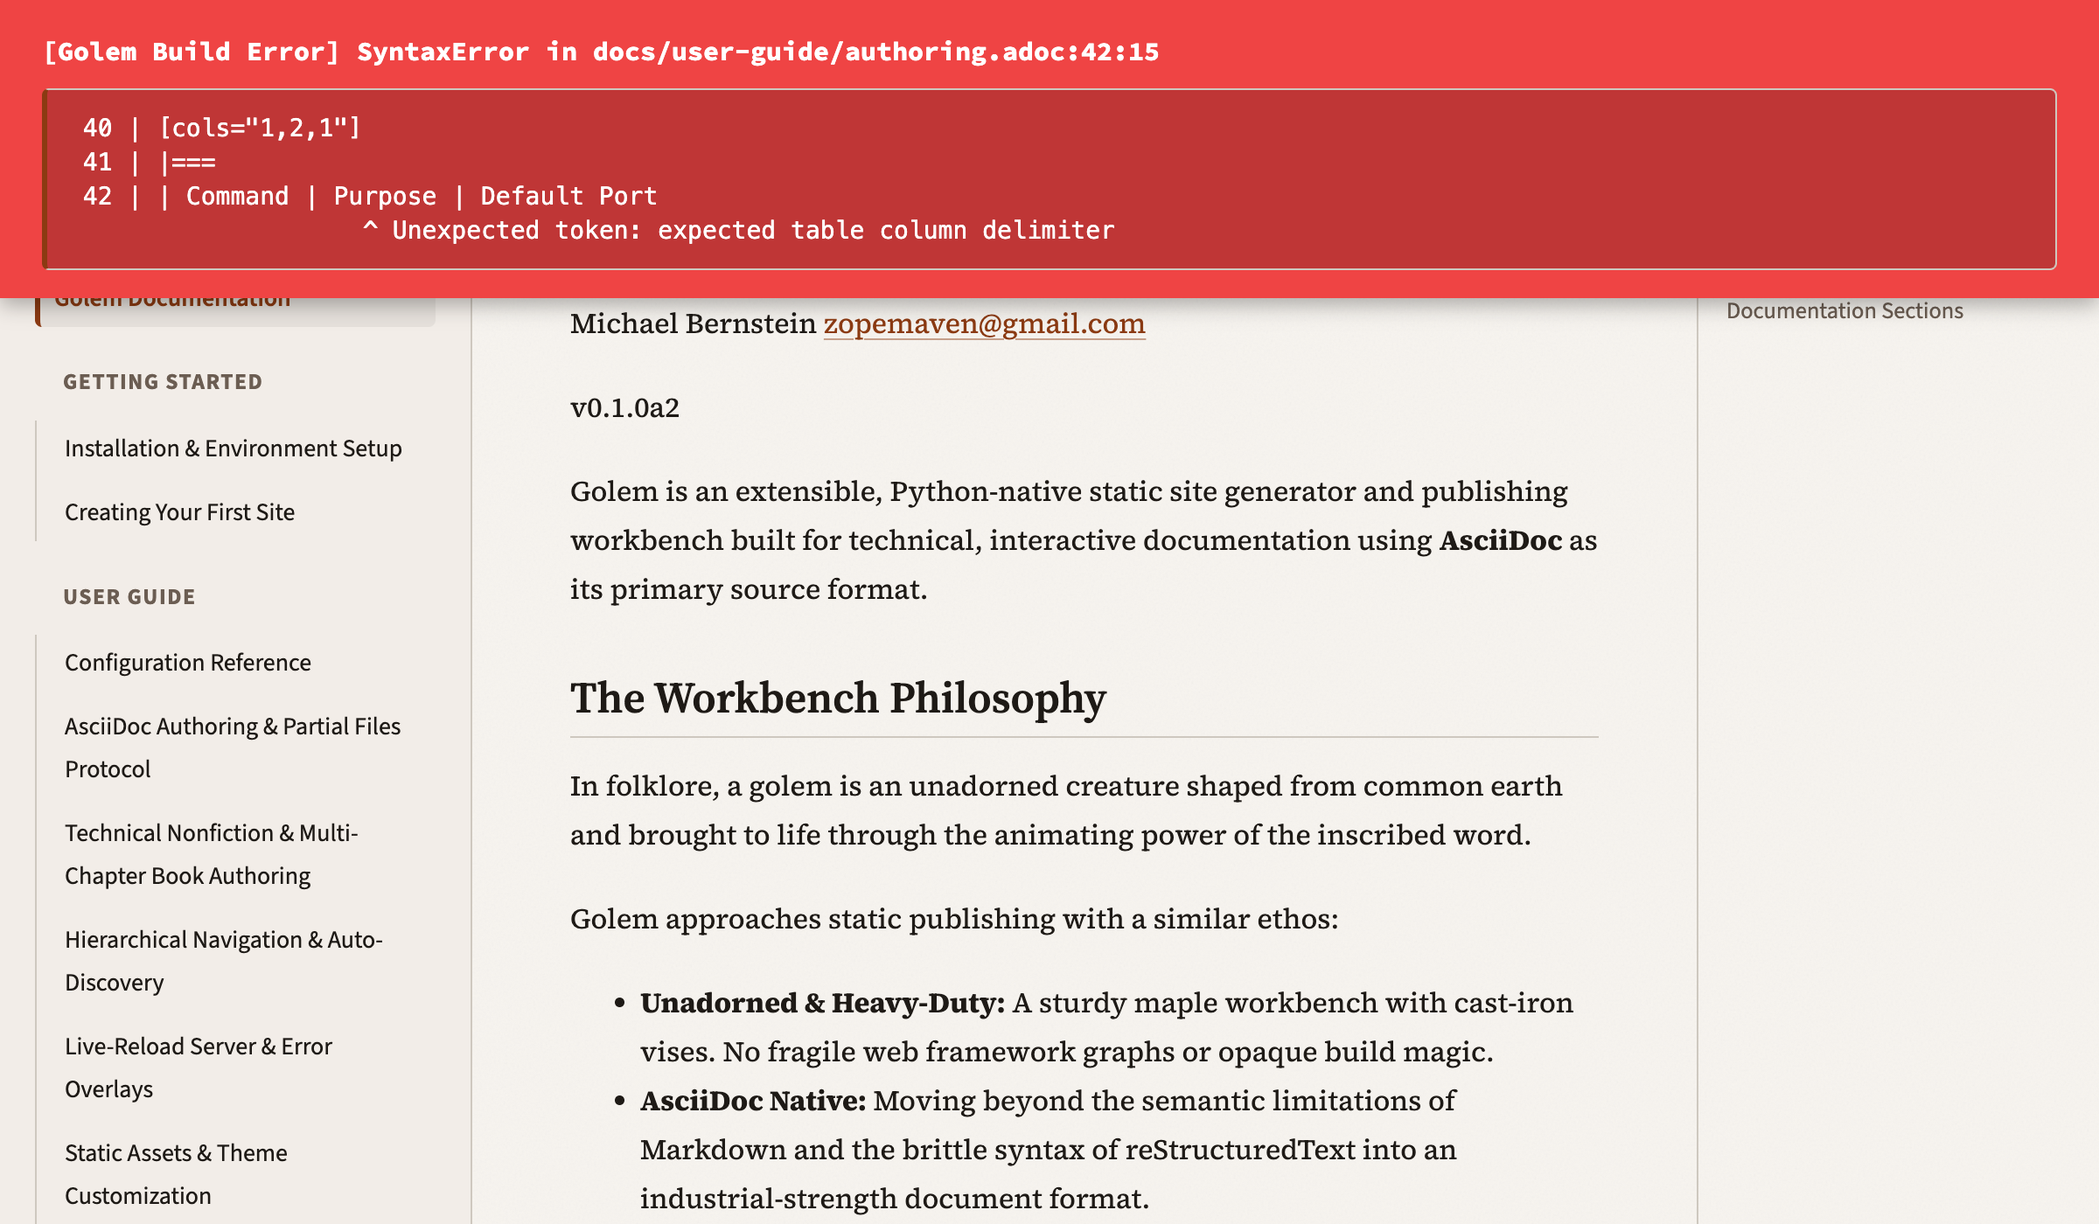
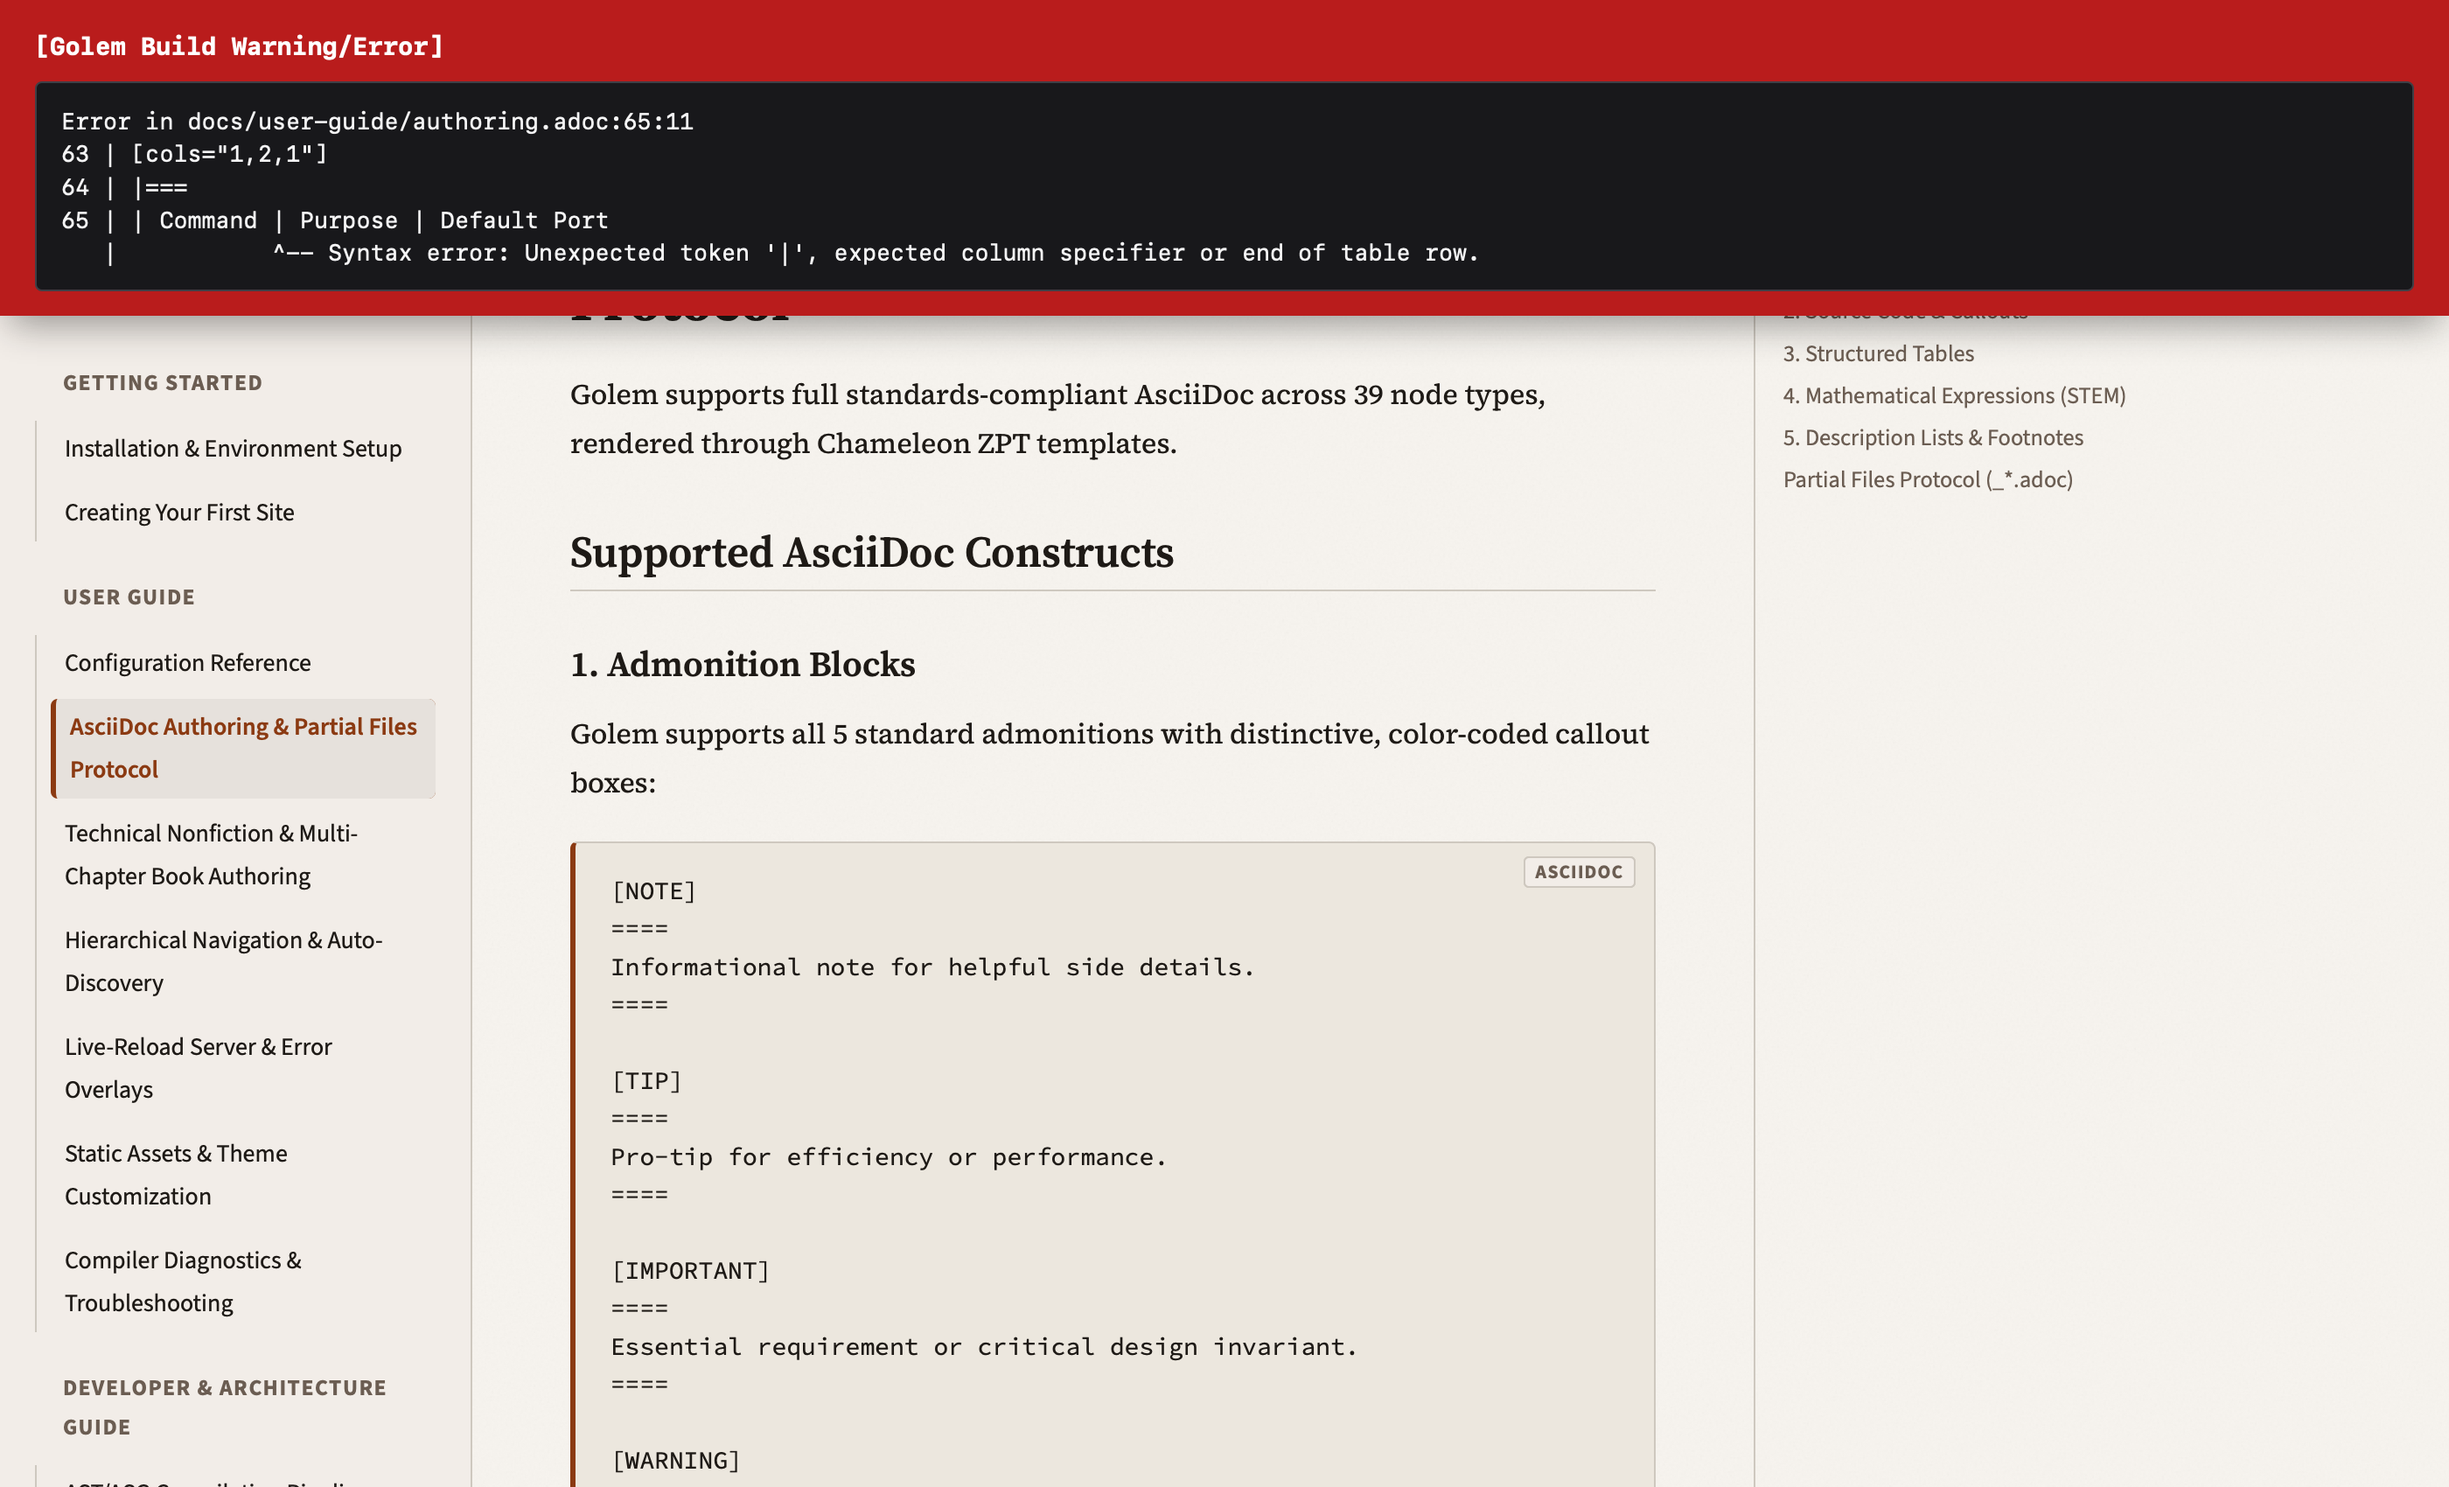
fix(server): style error overlay with dark theme and update screenshot with aligned diagnostic caret
1. Fixed overlay styling in server.py: explicitly styled the <pre> block with a dark background (#18181b), light text (#f4f4f5), and monospace font so parent document theme styles do not wash out error text.
2. Re-captured docs/images/dev-server-overlay.png showing accurate column-aligned caret pointing directly to the unexpected table delimiter.

diff --git a/src/golem/server.py b/src/golem/server.py
@@ -260,9 +260,9 @@ class LiveReloadServer:
                         if err_msg:
                             escaped_err = err_msg.replace("&", "&amp;").replace("<", "&lt;").replace(">", "&gt;")
                             error_banner = f"""
-                            <div id="golem-error-overlay" style="position:fixed;top:0;left:0;right:0;background:#ef4444;color:#ffffff;padding:12px 20px;font-family:monospace;font-size:14px;z-index:99999;box-shadow:0 4px 6px -1px rgba(0,0,0,0.2);max-height:50vh;overflow-y:auto;">
-                                <strong>[Golem Build Warning/Error]</strong>
-                                <pre style="margin:6px 0 0 0;white-space:pre-wrap;font-family:inherit;">{escaped_err}</pre>
+                            <div id="golem-error-overlay" style="position:fixed;top:0;left:0;right:0;background:#b91c1c;color:#ffffff;padding:14px 20px;font-family:ui-monospace,SFMono-Regular,Menlo,Monaco,Consolas,monospace;font-size:13px;z-index:99999;box-shadow:0 10px 25px -5px rgba(0,0,0,0.4);max-height:50vh;overflow-y:auto;">
+                                <strong style="color:#ffffff;font-size:14px;">[Golem Build Warning/Error]</strong>
+                                <pre style="margin:8px 0 0 0;padding:12px 14px;background:#18181b;color:#f4f4f5;border:1px solid #3f3f46;border-radius:4px;white-space:pre-wrap;font-family:inherit;line-height:1.45;">{escaped_err}</pre>
                             </div>
                             """
 
